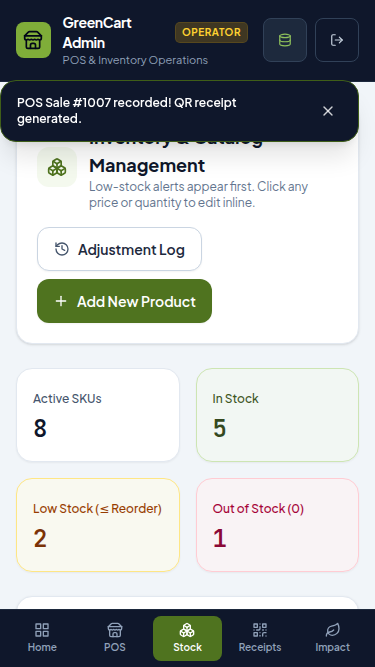
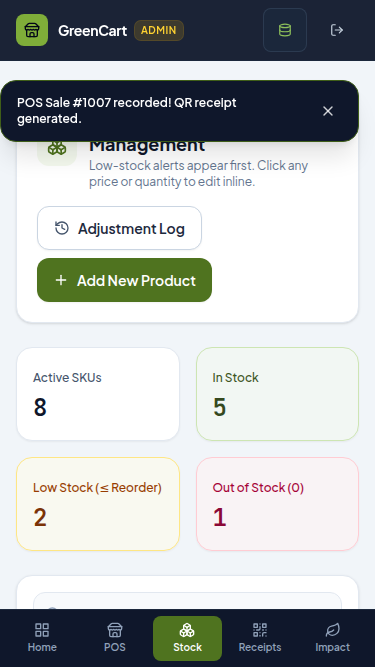
chore: polish admin UI and set Node >=24 engine for Render

diff --git a/src/client/components/AdminShell.tsx b/src/client/components/AdminShell.tsx
@@ -23,9 +23,9 @@ interface AdminShellProps {
 
 const ADMIN_NAV: Array<{ key: AdminSection; label: string; shortLabel: string; icon: typeof Store }> = [
   { key: 'overview', label: 'Dashboard', shortLabel: 'Home', icon: LayoutGrid },
-  { key: 'pos', label: 'POS Terminal', shortLabel: 'POS', icon: Store },
+  { key: 'pos', label: 'POS', shortLabel: 'POS', icon: Store },
   { key: 'inventory', label: 'Inventory', shortLabel: 'Stock', icon: Boxes },
-  { key: 'receipt', label: 'Digital Receipts', shortLabel: 'Receipts', icon: QrCode },
+  { key: 'receipt', label: 'Receipts', shortLabel: 'Receipts', icon: QrCode },
   { key: 'eco', label: 'Eco-Impact', shortLabel: 'Impact', icon: Leaf },
 ];
 
@@ -39,24 +39,24 @@ export function AdminShell({
 }: AdminShellProps) {
   return (
     <div className="min-h-screen bg-slate-100 pb-20 text-slate-900 md:pb-8">
-      <header className="sticky top-0 z-40 border-b border-slate-800 bg-slate-900 text-white print:hidden">
-        <div className="mx-auto flex max-w-7xl items-center justify-between gap-4 px-4 py-3 sm:px-6">
-          <div className="flex items-center gap-3">
-            <div className="flex h-9 w-9 items-center justify-center rounded-lg bg-brand-500 text-slate-950">
-              <Store className="h-5 w-5" />
+      <header className="sticky top-0 z-40 border-b border-slate-800/80 bg-slate-900/95 text-white backdrop-blur-md print:hidden">
+        <div className="mx-auto flex max-w-7xl items-center justify-between gap-4 px-4 py-2 sm:px-6">
+          <div className="flex shrink-0 items-center gap-2.5">
+            <div className="flex h-8 w-8 items-center justify-center rounded-lg bg-brand-500 text-slate-950">
+              <Store className="h-4 w-4" />
             </div>
-            <div>
-              <div className="flex items-center gap-2">
-                <span className="text-sm font-bold tracking-tight">GreenCart Admin</span>
-                <span className="rounded bg-amber-400/20 px-1.5 py-0.5 text-[10px] font-bold uppercase tracking-wider text-amber-300 ring-1 ring-amber-400/30">
-                  Operator
-                </span>
-              </div>
-              <p className="text-[11px] text-slate-400">POS &amp; Inventory Operations</p>
+            <div className="flex items-center gap-2">
+              <span className="text-sm font-bold tracking-tight">GreenCart</span>
+              <span className="rounded-md bg-amber-400/15 px-1.5 py-0.5 text-[10px] font-semibold uppercase tracking-wider text-amber-300 ring-1 ring-amber-400/25">
+                Admin
+              </span>
             </div>
           </div>
 
-          <nav className="hidden items-center gap-1 md:flex" aria-label="Admin Navigation">
+          <nav
+            className="hidden items-center gap-1 rounded-xl bg-slate-800/60 p-1 md:flex"
+            aria-label="Admin Navigation"
+          >
             {ADMIN_NAV.map((item) => {
               const Icon = item.icon;
               const active = activeSection === item.key;
@@ -66,39 +66,40 @@ export function AdminShell({
                   type="button"
                   aria-current={active ? 'page' : undefined}
                   onClick={() => onNavigate(item.key)}
-                  className={`inline-flex items-center gap-2 rounded-lg px-3 py-2 text-xs font-semibold transition ${
+                  className={`inline-flex items-center gap-1.5 whitespace-nowrap rounded-lg px-3 py-1.5 text-xs font-semibold transition ${
                     active
-                      ? 'bg-brand-600 text-white'
+                      ? 'bg-brand-600 text-white shadow-xs'
                       : 'text-slate-300 hover:bg-slate-800 hover:text-white'
                   }`}
                 >
-                  <Icon className="h-4 w-4" />
+                  <Icon className="h-3.5 w-3.5" />
                   {item.label}
                 </button>
               );
             })}
           </nav>
 
-          <div className="flex items-center gap-2">
+          <div className="flex shrink-0 items-center gap-2">
+            <span className="hidden text-xs text-slate-400 xl:inline">{user.full_name}</span>
+            <span className="hidden h-4 w-px bg-slate-800 xl:inline-block" aria-hidden="true" />
+
             <button
               type="button"
               aria-label="Inspect 7-Entity Database"
+              title="Inspect 7-Entity Database"
               onClick={onOpenDbModal}
-              className="inline-flex min-h-11 min-w-11 items-center justify-center gap-1.5 rounded-lg border border-slate-700 bg-slate-800 px-3 py-1.5 text-xs font-semibold text-slate-200 transition hover:bg-slate-700"
+              className="inline-flex min-h-11 min-w-11 items-center justify-center gap-1.5 rounded-lg border border-slate-700/80 bg-slate-800/80 px-2.5 py-1.5 text-xs font-semibold text-slate-200 transition hover:bg-slate-700 sm:min-h-8 sm:min-w-0"
             >
               <Database className="h-3.5 w-3.5 text-brand-400" />
-              <span className="hidden sm:inline">7-Entity DB</span>
+              <span className="hidden sm:inline">DB</span>
             </button>
-
-            <span className="hidden rounded-lg bg-slate-800 px-2.5 py-1.5 text-xs font-medium text-slate-200 lg:inline">
-              {user.full_name}
-            </span>
 
             <button
               type="button"
               onClick={onLogout}
               aria-label="Sign Out"
-              className="inline-flex min-h-11 min-w-11 items-center justify-center gap-1.5 rounded-lg border border-slate-700 px-3 py-1.5 text-xs font-semibold text-slate-300 transition hover:border-rose-500/50 hover:bg-rose-500/10 hover:text-rose-200"
+              title="Sign Out"
+              className="inline-flex min-h-11 min-w-11 items-center justify-center gap-1.5 rounded-lg px-2.5 py-1.5 text-xs font-semibold text-slate-300 transition hover:bg-rose-500/15 hover:text-rose-200 sm:min-h-8 sm:min-w-0"
             >
               <LogOut className="h-3.5 w-3.5" />
               <span className="hidden sm:inline">Sign Out</span>

diff --git a/src/client/components/AdminOverviewView.tsx b/src/client/components/AdminOverviewView.tsx
@@ -150,7 +150,7 @@ export function AdminOverviewView({
         </div>
       </div>
 
-      <div className="grid gap-6 lg:grid-cols-12">
+      <div className="grid items-start gap-6 lg:grid-cols-12">
         {/* Low / Out of Stock Attention Queue */}
         <section className="rounded-2xl border border-slate-200 bg-white p-5 shadow-xs lg:col-span-5">
           <div className="flex items-center justify-between border-b border-slate-100 pb-3">
@@ -261,13 +261,13 @@ export function AdminOverviewView({
               )}
             </div>
 
-            <div className="flex gap-2">
+            <div className="flex min-w-0 gap-2">
               <select
                 id="admin-tx-customer"
                 aria-label="Filter transactions by customer"
                 value={txCustomerId}
                 onChange={(e) => setTxCustomerId(e.target.value)}
-                className="min-h-10 flex-1 rounded-xl border border-slate-200 bg-slate-50 px-2.5 text-xs font-medium text-slate-800 focus:border-brand-500 focus:bg-white"
+                className="min-h-10 min-w-0 flex-1 truncate rounded-xl border border-slate-200 bg-slate-50 px-2.5 text-xs font-medium text-slate-800 focus:border-brand-500 focus:bg-white"
               >
                 <option value="ALL">All Customers</option>
                 {customers.map((c) => (
@@ -282,7 +282,7 @@ export function AdminOverviewView({
                 aria-label="Sort transactions"
                 value={txSort}
                 onChange={(e) => setTxSort(e.target.value as AdminTransactionSort)}
-                className="min-h-10 rounded-xl border border-slate-200 bg-slate-50 px-2.5 text-xs font-medium text-slate-800 focus:border-brand-500 focus:bg-white"
+                className="min-h-10 shrink-0 rounded-xl border border-slate-200 bg-slate-50 px-2.5 text-xs font-medium text-slate-800 focus:border-brand-500 focus:bg-white"
               >
                 <option value="newest">Newest</option>
                 <option value="oldest">Oldest</option>
@@ -334,7 +334,7 @@ export function AdminOverviewView({
             tabIndex={0}
             role="region"
             aria-label="Store transactions list"
-            className="mt-3 max-h-[380px] divide-y divide-slate-100 overflow-y-auto pr-1 focus:outline-2 focus:outline-brand-600"
+            className="mt-3 max-h-96 divide-y divide-slate-100 overflow-y-auto pr-1 focus:outline-2 focus:outline-brand-600"
           >
             {txError ? (
               <p className="py-6 text-center text-xs text-rose-700">{txError}</p>

diff --git a/src/client/components/EcoImpactView.tsx b/src/client/components/EcoImpactView.tsx
@@ -1,7 +1,6 @@
-import { CloudOff, FileCheck2, Info, Leaf, QrCode, ScrollText } from './Icons';
+import { CloudOff, FileCheck2, Leaf, QrCode, ScrollText } from './Icons';
 import { formatCurrency } from '../utils/format';
 import {
-  ECO_IMPACT_SPEC,
   type AccountType,
   type EcoImpactSummary,
   type EcoScope,
@@ -22,7 +21,6 @@ export function EcoImpactView({
   onChangeScope,
   onInspectToken,
 }: EcoImpactViewProps) {
-  const spec = summary?.specification ?? ECO_IMPACT_SPEC;
   const paperSaved = summary?.total_paper_saved ?? 0;
   const nextMilestone = paperSaved < 10 ? 10 : paperSaved < 25 ? 25 : paperSaved < 50 ? 50 : 100;
   const progressPct = Math.min(100, Math.round((paperSaved / nextMilestone) * 100));
@@ -139,28 +137,6 @@ export function EcoImpactView({
             className="h-full w-full origin-left rounded-full bg-brand-600 transition-transform duration-300 ease-out"
             style={{ transform: `scaleX(${progressPct / 100})` }}
           />
-        </div>
-      </div>
-
-      {/* Formula Disclosure Banner */}
-      <div className="flex items-start gap-3 rounded-2xl border border-sky-200 bg-sky-50/80 p-4 text-xs text-sky-900">
-        <Info className="mt-0.5 h-4 w-4 shrink-0 text-sky-700" />
-        <div className="space-y-1.5">
-          <p className="font-semibold">Documented Estimation Methodology</p>
-          <p className="text-sky-900">
-            {summary?.formula_note ?? spec.formula_note} Figures are project estimates derived from
-            persisted database records, not laboratory emission measurements.
-          </p>
-          <p className="text-[11px] text-sky-900">
-            <span className="font-semibold">Approved Metrics (Estimate &amp; Count Scope):</span>{' '}
-            {spec.metrics
-              .map(
-                (m) =>
-                  `${m.label} (${m.unit}, ${m.is_estimate ? 'Estimate' : 'Recorded Count'}) [${m.documented_in.join(', ')}]`
-              )
-              .join(' · ')}
-          </p>
-          <p className="text-[11px] font-medium text-sky-900">{spec.pending_approval_note}</p>
         </div>
       </div>
 

diff --git a/tests/e2e.spec.ts b/tests/e2e.spec.ts
@@ -119,8 +119,6 @@ test.describe('GreenCart Browser E2E, Mobile P0 & Accessibility', () => {
     await expect(page.getByText(/Cumulative Paper-Saving Milestone/i)).toBeVisible();
     await expect(page.getByText(/Paper Saved \(Estimate\)/i)).toBeVisible();
     await expect(page.getByText(/Carbon Reduction \(Estimate\)/i)).toBeVisible();
-    await expect(page.getByText(/Documented Estimation Methodology/i)).toBeVisible();
-    await expect(page.getByText(/Water saved is excluded/i)).toBeVisible();
     const ecoAxe = await new AxeBuilder({ page })
       .withTags(['wcag2a', 'wcag2aa'])
       .analyze();
